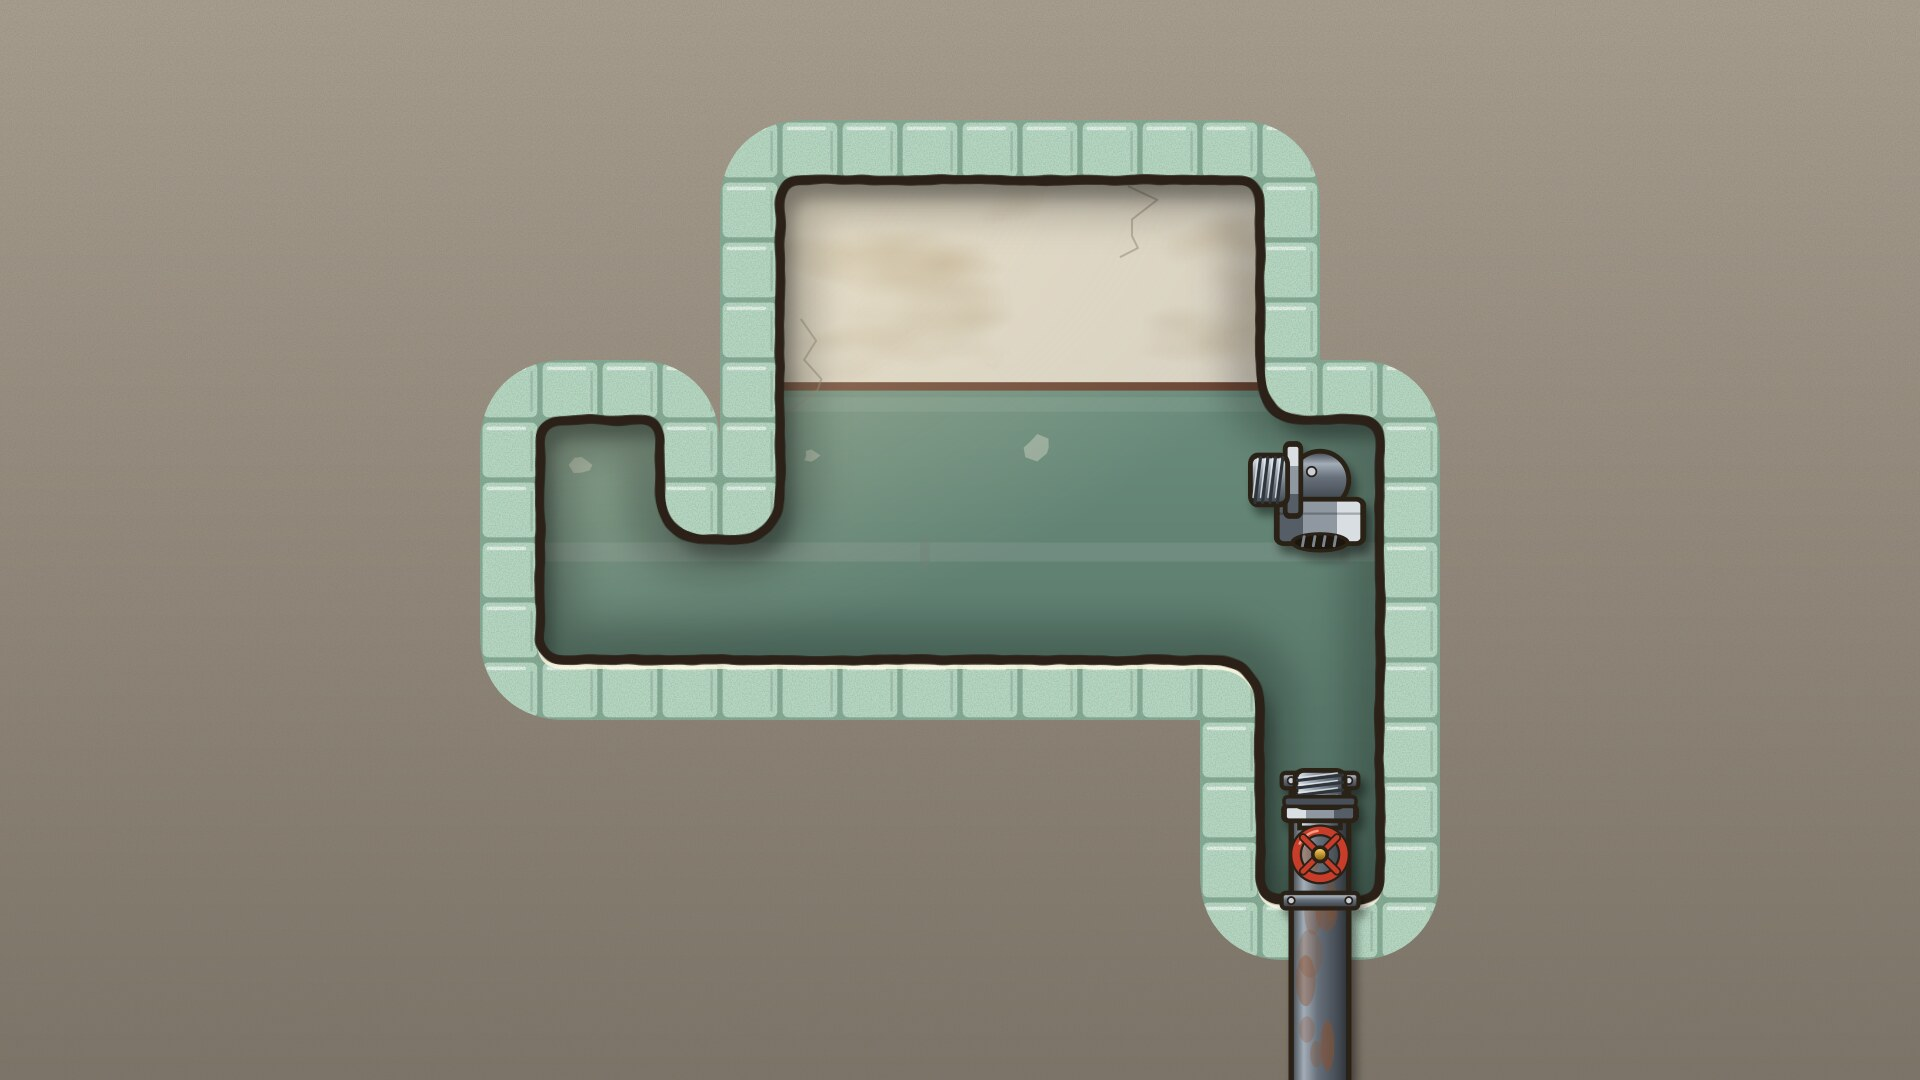
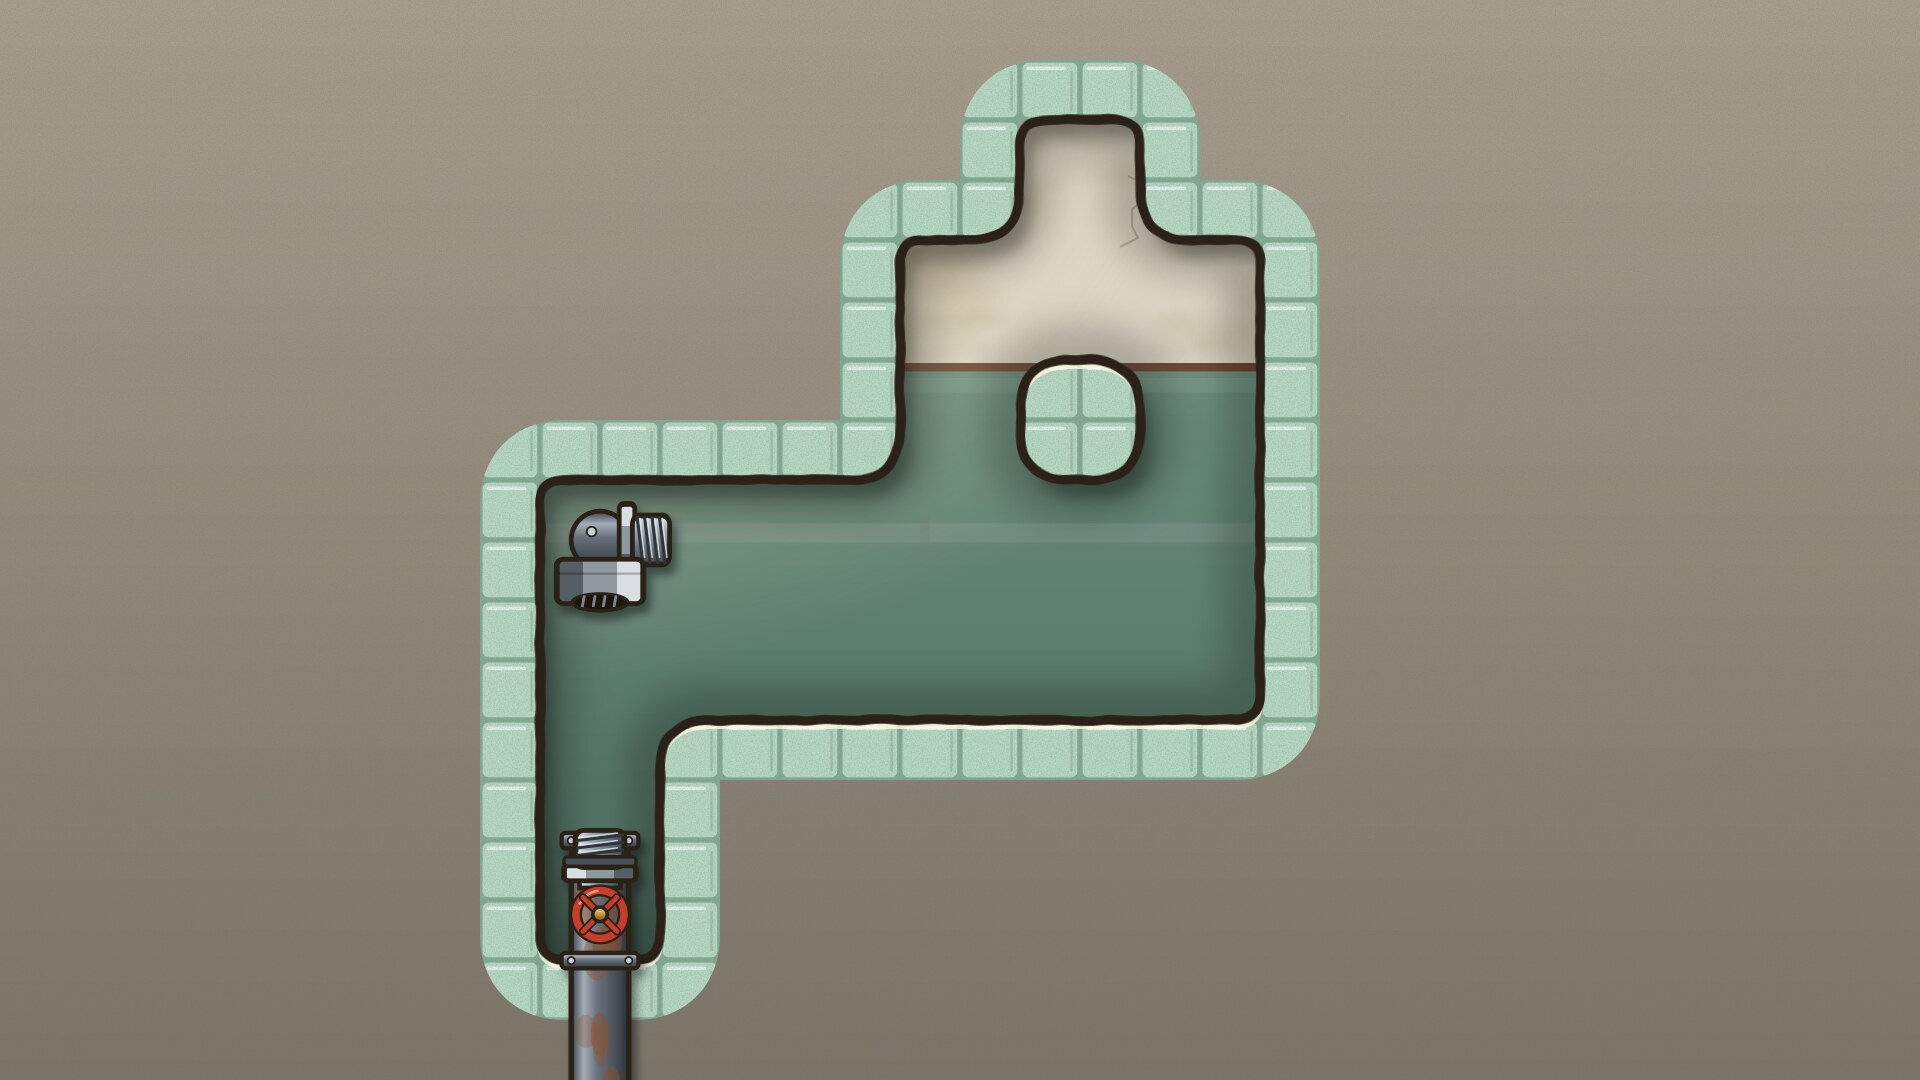
Кв. 4 «Резьба»: ядро с тремя деталями (t17 после слепой проверки, near), 23 хода; новый угольник, фон и отчёты
Claude-Session: https://claude.ai/code/session_01KTF9zcDbthXae1taWntBSd

Changed region(s): [[0.25, 0.0306, 0.75, 1.0]]

diff --git a/reports/metrics.md b/reports/metrics.md
@@ -9,7 +9,7 @@
 | 1 | «Не той стороной» | 9×7 | 2–4 | 0 | 211 (≤ 20000) | 15 (15–40) | 38.4% (≥ 25%) | 0 (≥ 1) | 1 | 0.76 % | 3 (3) | без крюка: нерешаем ✓; крюк без крепления: нерешаем ✓ | ⚠ мало ложных веток |
 | 2 | «Скалолаз» | 11×10 | 2–4 | 0 | 215 (≤ 50000) | 20 (15–40) | 70.7% (≥ 25%) | 11 (≥ 0) | 1 | 0 % | 1 (1) | замурован только крюк ряда лаза: нерешаем ✓; замурован только якорь шахты: нерешаем ✓; зацепиться на лету нельзя: нерешаем ✓ | ✅ |
 | 3 | «Мыло» | 11×8 | 2–5 | 0 | 4017 (≤ 100000) | 32 (15–40) | 82.6% (≥ 35%) | 6 (≥ 2) | 1 | 0 % | 6 (3) | без фаянса: нерешаем ✓; подставку не выбить: нерешаем ✓; мыло на мыло не ляжет: нерешаем ✓; мост запрещён: нерешаем ✓; подъёмник запрещён: нерешаем ✓ | ✅ |
-| 4 | «Резьба» | 9×8 | 2–4 | 0 | 6176 (≤ 300000) | 16 (15–40) | 78.8% (≥ 40%) | 4 (≥ 2) | 1 | 0.03 % | 3 (3) | без муфты: нерешаем ✓; без ниппеля: нерешаем ✓; сборка заранее: нерешаем ✓; по одной нельзя: нерешаем ✓ | ✅ |
+| 4 | «Резьба» | 9×9 | 2–4 | 0 | 9539 (≤ 300000) | 23 (15–40) | 79.6% (≥ 40%) | 1 (≥ 2) | 1 | 0.1 % | 66 (7) | без муфты: нерешаем ✓; без ниппеля: нерешаем ✓; без угольника: нерешаем ✓; по одной нельзя: нерешаем ✓ | ⚠ мало ложных веток; широкий коридор решений (7) |
 | 5 | «Лишний выход» | 9×7 | 2–4 | 0 | 1682 (≤ 100000) | 15 (15–40) | 41.7% (≥ 35%) | 1 (≥ 1) | 1 | 0.05 % | 1 (1) | без заглушки: нерешаем ✓; тройник заглушён заранее: нерешаем ✓; ступенька запрещена: нерешаем ✓ | ✅ |
 | 6 | «Намертво» | 11×5 | 3–5 | 0 | 30969 (≤ 1000000) | 23 (15–40) | 86.2% (≥ 50%) | 10 (≥ 3) | 1 | 0 % | 2 (2) | без ниппеля: нерешаем ✓; без муфты: нерешаем ✓; пара не держит муфту над сливом: нерешаем ✓; ниппель не переходит муфту поверху: нерешаем ✓ | ✅ |
 

diff --git a/build/p3/REVIEW.md b/build/p3/REVIEW.md
@@ -105,3 +105,7 @@
   уровня с деталями не берётся без раздувания. Новые ворота — ошибки плана (≥ 2, одна во второй половине, стойкость 4–6 ходов,
   несущность), доля ≥ 25 % после замуровки — записаны в §7. Это не подгонка под кандидата: t16 и по ним пока не проходит
   (одна ошибка, первая половина) и ставится как near.
+- **Кв. 4 установлена (30.09): build/l4e/t17.lua → levels/04.lua как near.** Три детали (угольник, ниппель, муфта), машинка под
+  дырой в антресоли; 23 хода, честно ≈ 35 % (карман 4; при 5 — 26 %), обезьяна 0,15 %, прогулка 5, все клетки несущие; несущая
+  ошибка — выбор спуска для угольника; долги: дверь только в первой половине, ширина 7 (три порядка одного плана), подзадачи
+  угольника и шахты не связаны. Скептик (build/l4v3): near — ставить вместо 16-ходовой с 11 %.

diff --git a/WALKTHROUGH_SPOILERS.md b/WALKTHROUGH_SPOILERS.md
@@ -19,10 +19,11 @@
 21. Н→  22. Г→  23. Г↑  24. Г→  25. Г↑  26. Г↑  27. Г↑  28. Г↑  29. Г→  30. Г→  
 31. Н↑  32. Н↑  
 
-## Кв. 4 · «Резьба» — 16 ходов
+## Кв. 4 · «Резьба» — 23 ходов
 
-1. Н←  2. Н←  3. Н↓  4. Н↓  5. Н↓  6. Н→  7. Н→  8. Г↑  9. Г→  10. Н→  
-11. Н→  12. Н→  13. Н↑  14. Н←  15. Г→  16. Г↑  
+1. Г→  2. Г↑  3. Г→  4. Н→  5. Н←  6. Г↑  7. Г↑  8. Г←  9. Н←  10. Н↓  
+11. Н←  12. Н↑  13. Н↑  14. Н↑  15. Н→  16. Н←  17. Г←  18. Г←  19. Н→  20. Н↓  
+21. Г↑  22. Г←  23. Г←  
 
 ## Кв. 5 · «Лишний выход» — 15 ходов
 
